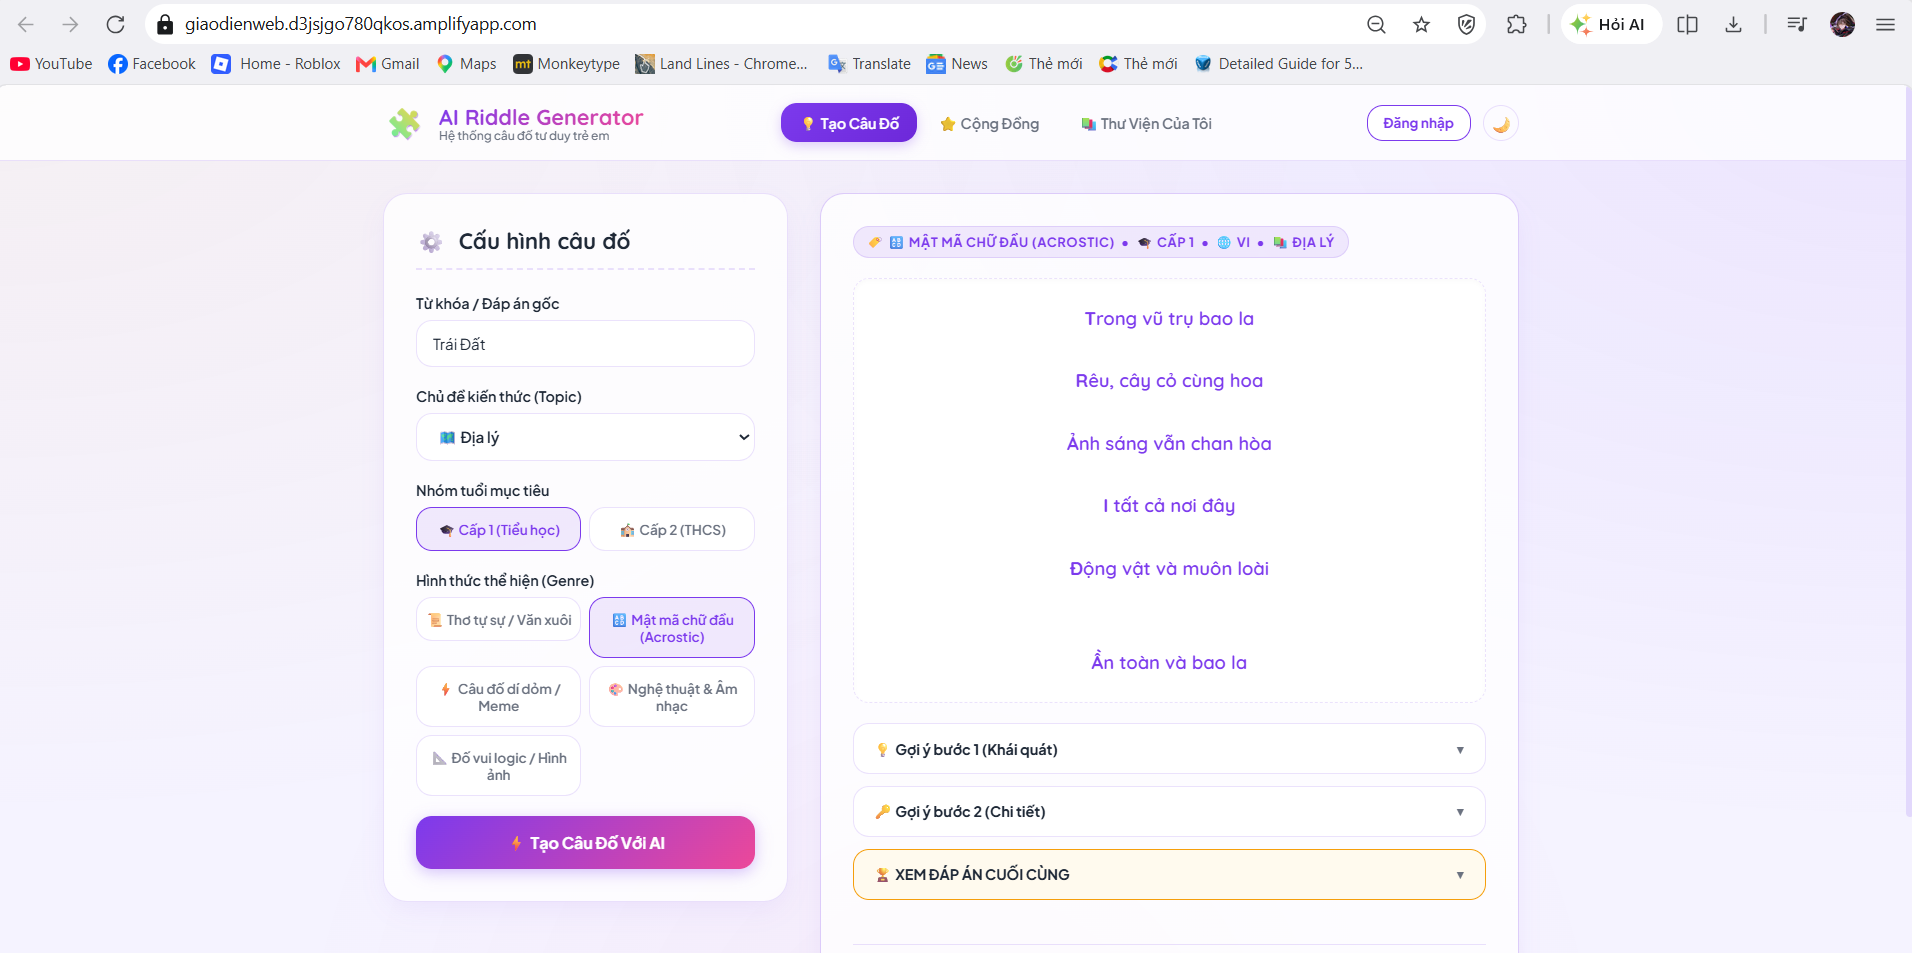
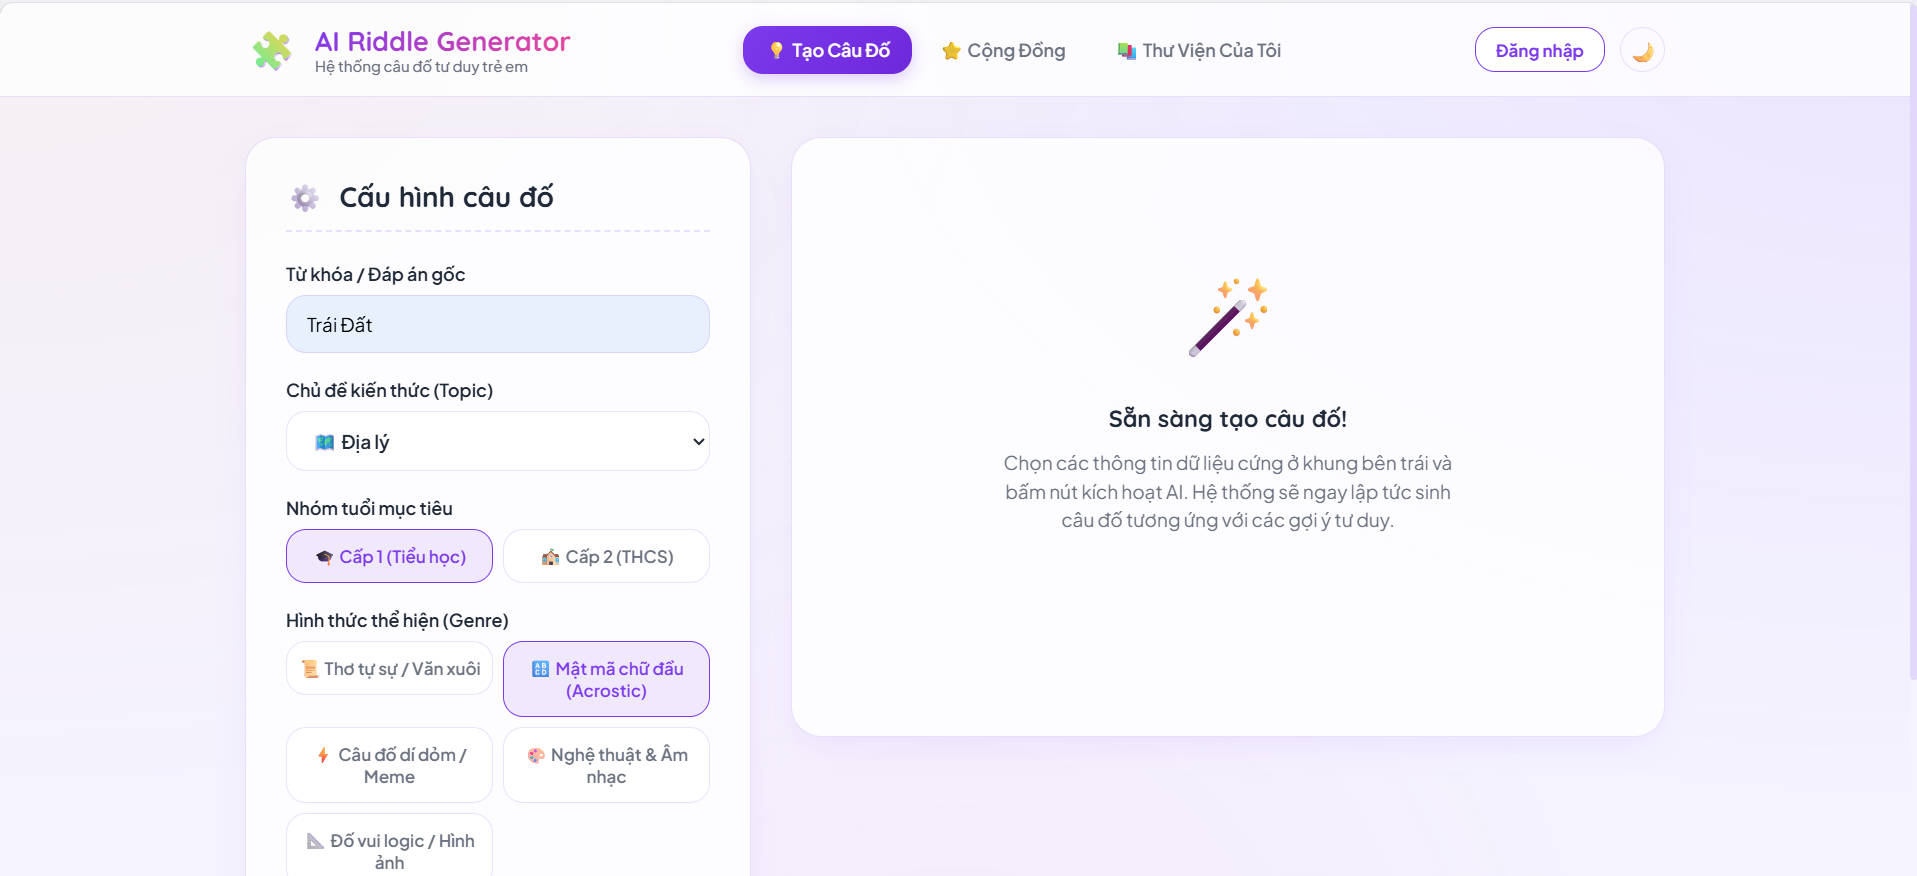
docs: adjust image link mapping to match manually renamed screenshot files

diff --git a/content/5-Workshop/5.13-Web-Interface/_index.md b/content/5-Workshop/5.13-Web-Interface/_index.md
@@ -78,9 +78,9 @@ Below is the chronological, step-by-step user journey executed on the live front
 4. **Reveal General Clue:** Clicking the **💡 Gợi ý bước 1 (Khái quát)** tab reveals the first general hint.
    ![Hint 1 Revealed](/images/5-Workshop/5.13-Web-Interface/test_create_riddle_hint.png)
 5. **Reveal Final Answer:** Clicking **🏆 XEM ĐÁP ÁN CUỐI CÙNG** expands the answer badge to reveal the target keyword `"Trái Đất"`.
-   ![Answer Uncovered](/images/5-Workshop/5.13-Web-Interface/test_create_riddle_answer.png)
+   ![Answer Uncovered](/images/5-Workshop/5.13-Web-Interface/test_create_riddle_saved.png)
 6. **Save to local Library:** Clicking **Lưu Vào Thư Viện** writes the riddle record to localStorage. The button state updates to `⭐ Đã Lưu Vào Thư Viện`.
-   ![Riddle Saved](/images/5-Workshop/5.13-Web-Interface/test_create_riddle_saved.png)
+   ![Riddle Saved](/images/5-Workshop/5.13-Web-Interface/test_create_riddle_answer.png)
 
 #### 2.3. Step 3: Community Interactivity & Solving (Community Tab - Simulated)
 Navigating to the **Community** feed containing public riddle contributions: